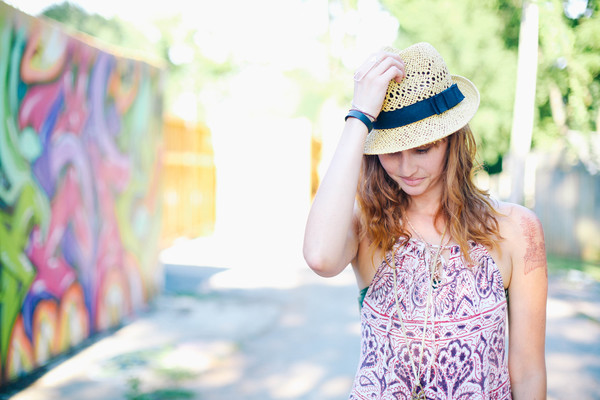
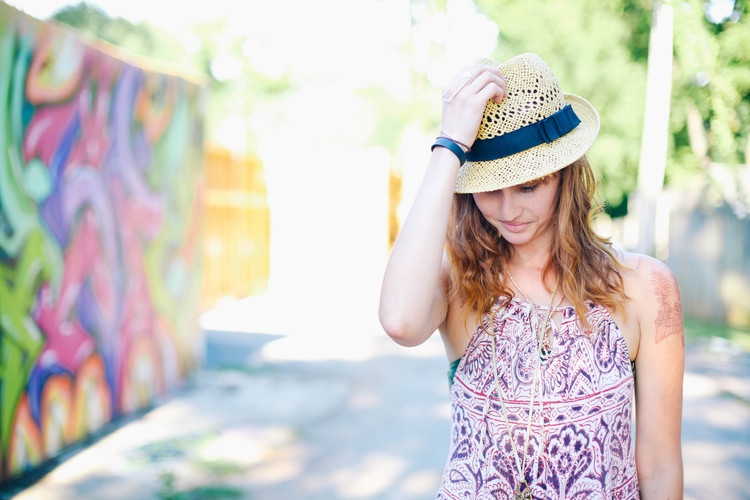
fixing resizing issues 20

diff --git a/app/assets/stylesheets/mobile-devices.css.scss b/app/assets/stylesheets/mobile-devices.css.scss
@@ -1,27 +1,65 @@
 @media only screen and (max-width: 650px) {
-	  h1_1 {position: absolute;
-top: 15px;
-text-align: center;
-font: bold 40px/40px Rock Salt, Sans-Serif;
-width: 100%;
- height: 100%;
-color:  #1abc9c;
-        }
+	  h1_1{
+	font: bold 40px/40px Rock Salt, Sans-Serif;
+}
+
+        p_3 {
+font-size: 32px;
+}
+
+	p_5{
+font: bold 13px/13px Rock Salt, Sans-Serif;
+margin-left: 20%; 
+}
+
+h1_2{
+   font: bold 40px/40px Rock Salt, Sans-Serif;
+ }
+
+ h1_3{
+font: bold 15px/15px Rock Salt, Sans-Serif
+}
+
+.email{
+      
+      margin-left: 0%;
+
+}
+
+.mystyle input[type="text"] {
+   height: 63px;
+   font-size: 13px;
+   line-height: 50px;
+   width:100%;
+  
+}
+
+.ebutton{
+position: absolute;
+ margin-left: 75%; 
+ top: 0px;
+ z-index: 10;
+ 
+ }
+
+.btn {
+    
+    padding: 4.5px 0px;
+    font-size: 22px;
+    line-height: normal;
+  
+            border-radius: 0px;
+  
+}
+
+
+
+
+
+
       }
 
 
-@media only screen and (max-width: 650px) {
-	p_5{
- position: absolute;
-top: 90%;
-text-align: center;
-font: bold 13px/13px Rock Salt, Sans-Serif;
-width: 100%;
- height: 100%;
-color: red;
-margin-left: 20%; 
-}
-}
 
 
 

diff --git a/app/assets/stylesheets/articles.css.scss b/app/assets/stylesheets/articles.css.scss
@@ -50,27 +50,19 @@ font: bold 25px/25px Rock Salt, Sans-Serif;
 width: 100%;
 color: #1abc9c;
 }
+
+h1_4{
+  
+text-align: center;
+font: bold 30px/30px Rock Salt, Sans-Serif;
+width: 100%;
+margin-left: 6%;
+color: #cbd0d3;
+}
 .email{
       
       margin-left: 35%;
 
-}
-.ebutton{
-position: absolute;
- margin-left: 310px; 
- top: 0px;
- z-index: 10;
- }
-
-
-.social{
-    
-  margin-left: 5%; 
- 
-}
-
-.sharing{
-  float: left;
 }
 
 
@@ -81,6 +73,26 @@ position: absolute;
    width:100%;
   
 }
+
+.ebutton{
+position: absolute;
+ margin-left: 310px; 
+ top: 0px;
+ z-index: 10;
+ }
+
+
+.social{
+    
+  margin-left: 5%;
+ 
+ 
+}
+
+.sharing{
+  float: left;
+}
+
 
 
 

diff --git a/app/assets/stylesheets/bootstrap_and_customization.css.scss b/app/assets/stylesheets/bootstrap_and_customization.css.scss
@@ -6,11 +6,12 @@ $body-bg: white;
 $font-family-sans-serif:                'Rock Salt', 'Helvetica Neue', Helvetica, Arial, sans-serif;
 $navbar-default-bg: white;
 $navbar-default-link-color: red;
-$navbar-default-link-hover-color: #27ae60;
+$navbar-default-link-hover-color: #f1c40f;
 $brand-primary: red;
 $brand-success: #1abc9c;
+$brand-warning: #ecf0f1;
 $thumbnail-bg: #7f8c8d;
-$panel-footer-bg: #27ae60;
+$panel-footer-bg: #1abc9c;
 
 $input-border: #7f8c8d;
 

diff --git a/app/models/article.rb b/app/models/article.rb
@@ -1,6 +1,6 @@
 class Article < ActiveRecord::Base
  belongs_to :user
-  has_attached_file :photo, :styles => { :medium => "1000x400>", :large => "500x2000>" }
+  has_attached_file :photo, :styles => { :medium => "1200x500>", :large => "500x2000>" }
  validates_attachment_content_type :photo, :content_type => ["image/jpg", "image/jpeg", "image/png"]
 
 
